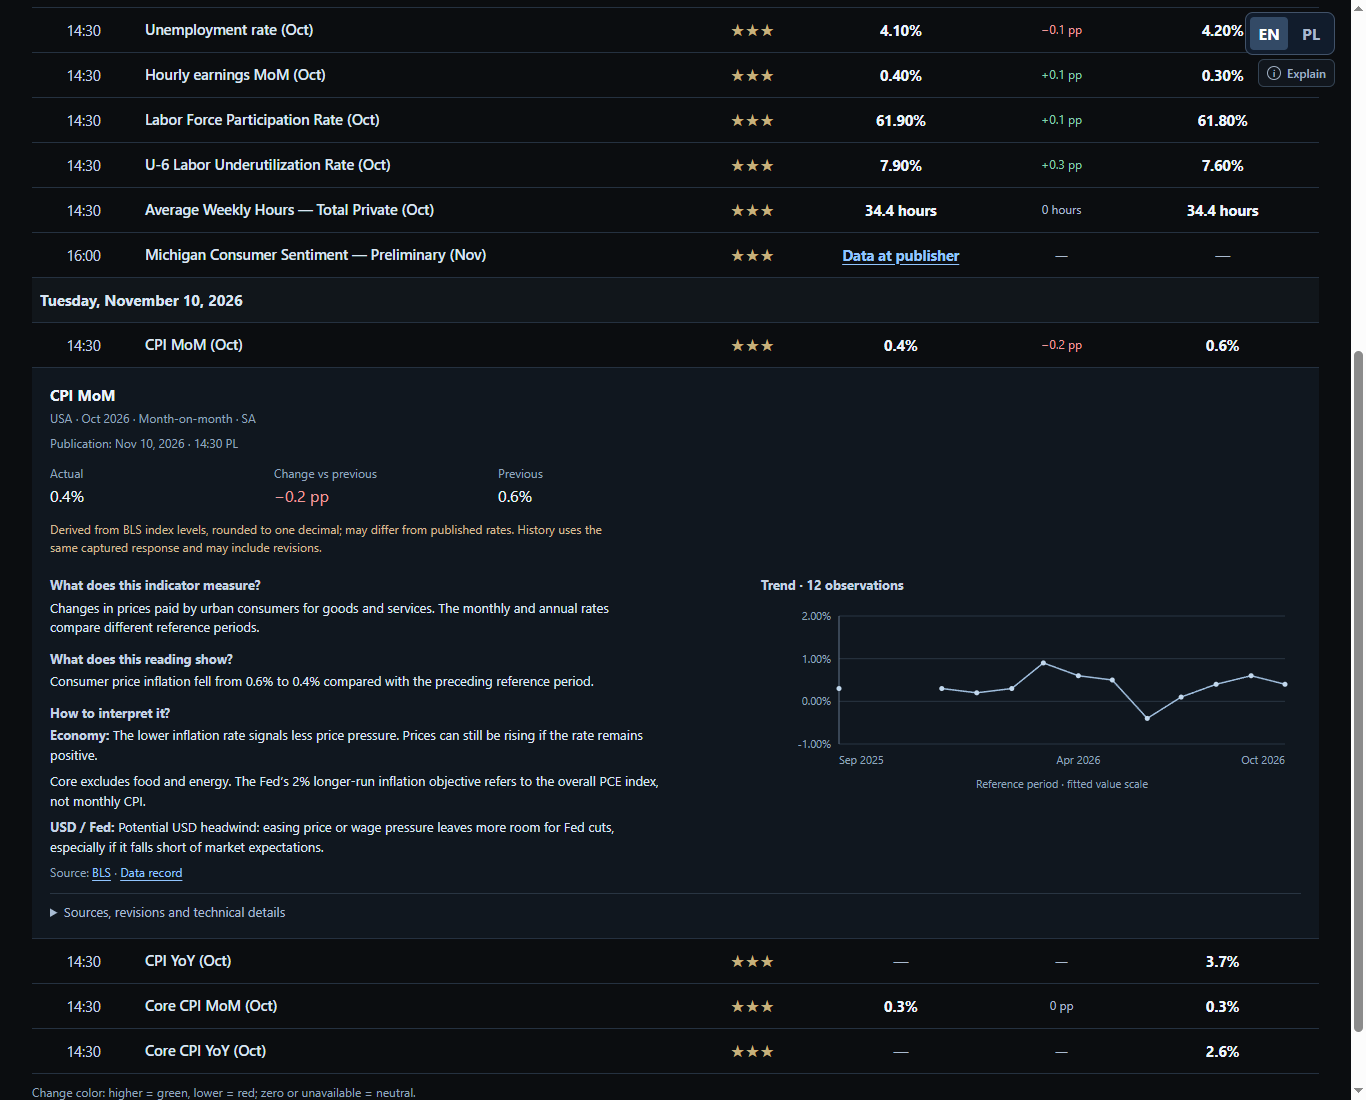
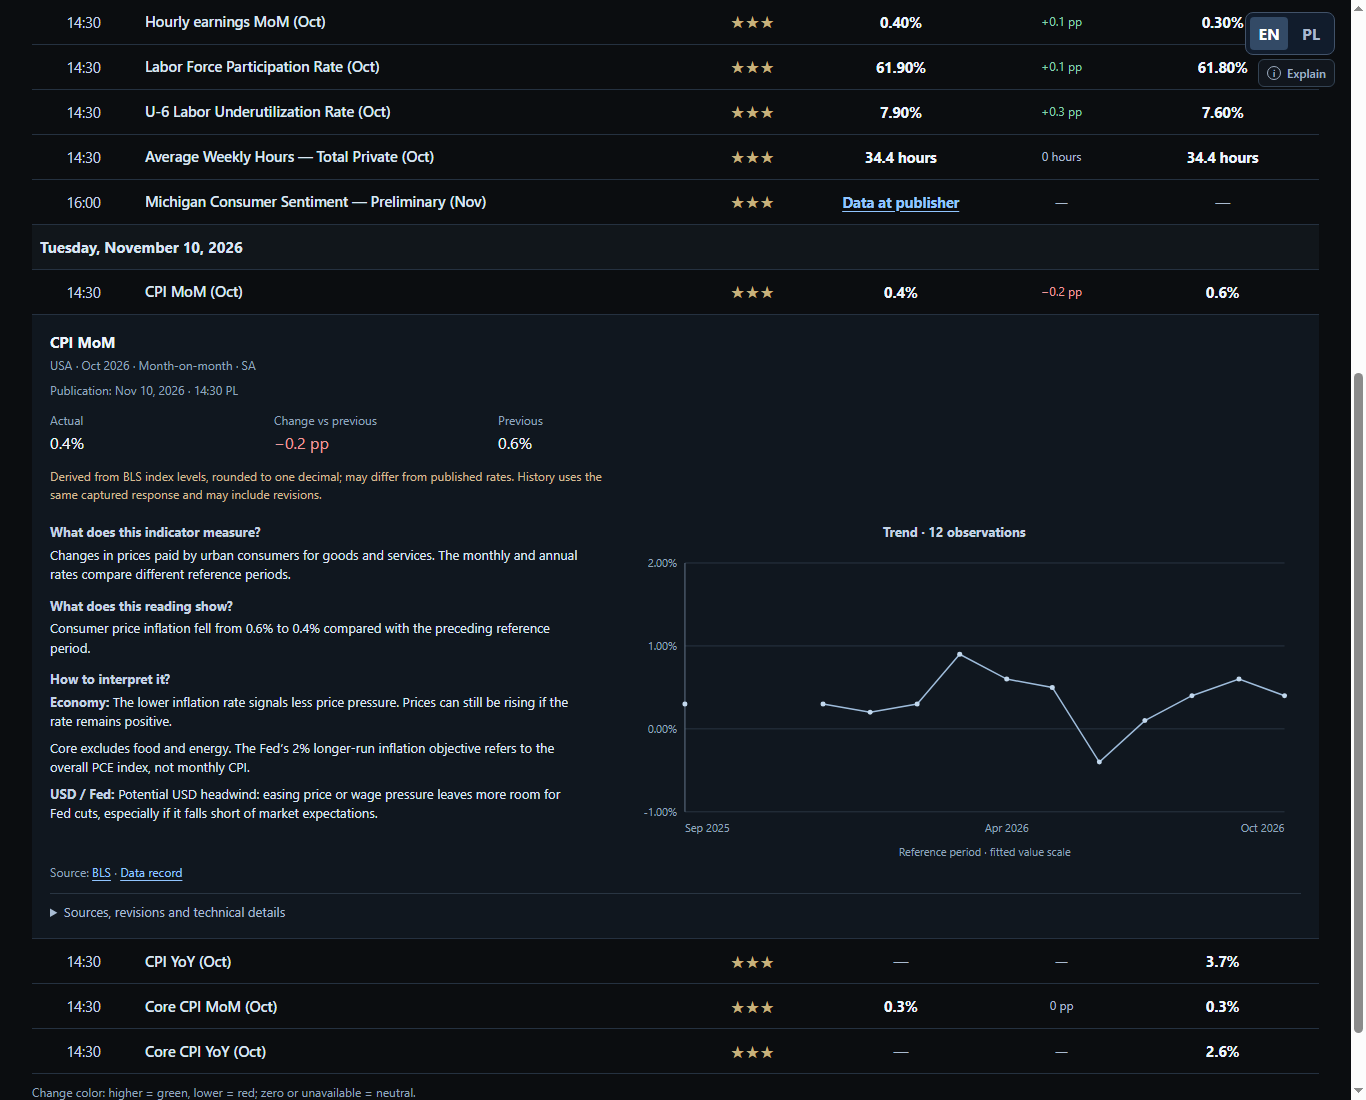
Expand Calendar event trend chart and center its heading

diff --git a/frontend/src/calendar/MacroTrend.tsx b/frontend/src/calendar/MacroTrend.tsx
@@ -17,13 +17,14 @@ export function MacroTrend({measure}:{measure:CalendarMeasure}){
   return()=>abort.abort();
  },[key]);
  const fromBls=blsTrend(measure);const points=fromBls.length?fromBls:state?.key===key?state.points:[];if(!points.length)return null;
- const geometry=trendGeometry(points,measure.frequency,width),title=et(`Trend · ${points.length} observations`,`Trend · ${points.length} odczytów`);
+ const height=Math.round(Math.max(220,Math.min(340,width*0.46)));
+ const geometry=trendGeometry(points,measure.frequency,width,height),title=et(`Trend · ${points.length} observations`,`Trend · ${points.length} odczytów`);
  return <section ref={container} className="macro-insight-trend" aria-label={title}><h4>{title}</h4>
- <svg viewBox={`0 0 ${width} 198`} role="img" aria-label={title}><title>{title}</title><desc>{(measure.selected_source==='bls:employment'||measure.selected_source==='bls:cpi')?et('BLS history from one captured response; includes revisions.','Historia BLS z jednej pobranej odpowiedzi; obejmuje rewizje.'):request?.documentHash?et('History from the selected report.','Historia z wybranego raportu.'):et('Current-vintage history; may include revisions.','Historia w bieżącej wersji; może zawierać rewizje.')}</desc>
+ <svg viewBox={`0 0 ${width} ${height}`} role="img" aria-label={title}><title>{title}</title><desc>{(measure.selected_source==='bls:employment'||measure.selected_source==='bls:cpi')?et('BLS history from one captured response; includes revisions.','Historia BLS z jednej pobranej odpowiedzi; obejmuje rewizje.'):request?.documentHash?et('History from the selected report.','Historia z wybranego raportu.'):et('Current-vintage history; may include revisions.','Historia w bieżącej wersji; może zawierać rewizje.')}</desc>
  <g className="macro-trend-axis">{geometry.ticks.map(t=><g key={t.value}><line x1={geometry.left} x2={geometry.right} y1={t.y} y2={t.y}/><text x={geometry.left-8} y={t.y+4} textAnchor="end">{compactMeasureValue(t.value,measure.unit)}</text></g>)}
  <line className="macro-trend-baseline" x1={geometry.left} x2={geometry.left} y1={geometry.top} y2={geometry.bottom}/>
- {geometry.xTicks.map((p,i)=><text key={p.period} x={p.x} y={166} textAnchor={i===0?'start':i===geometry.xTicks.length-1?'end':'middle'}>{formatObservationDate(p.period,measure.frequency)}</text>)}
- <text x={(geometry.left+geometry.right)/2} y={190} textAnchor="middle">{et('Reference period · fitted value scale','Okres odczytu · dopasowana skala wartości')}</text></g>
+ {geometry.xTicks.map((p,i)=><text key={p.period} x={p.x} y={height-32} textAnchor={i===0?'start':i===geometry.xTicks.length-1?'end':'middle'}>{formatObservationDate(p.period,measure.frequency)}</text>)}
+ <text x={(geometry.left+geometry.right)/2} y={height-8} textAnchor="middle">{et('Reference period · fitted value scale','Okres odczytu · dopasowana skala wartości')}</text></g>
  <path d={geometry.path}/>{geometry.dots.map(p=><circle key={p.period} cx={p.x} cy={p.y} r="2.5"><title>{formatObservationDate(p.period,measure.frequency)}: {compactMeasureValue(p.value,measure.unit)}</title></circle>)}</svg>
  <ol className="visually-hidden" aria-label={et('Trend values','Wartości trendu')}>{points.map(p=><li key={p.period}><time dateTime={p.period}>{formatObservationDate(p.period,measure.frequency)}</time>: {compactMeasureValue(p.value,measure.unit)}</li>)}</ol>
  </section>;

diff --git a/frontend/src/calendar/macroTrendData.ts b/frontend/src/calendar/macroTrendData.ts
@@ -59,12 +59,12 @@ export function comparableTrend(m:CalendarMeasure,data:unknown):TrendPoint[]{
  return result.length>=3?result:[];
 }
 
-export function trendGeometry(points:TrendPoint[],frequency:string,width=540){
+export function trendGeometry(points:TrendPoint[],frequency:string,width=540,height=198){
  const times=points.map(p=>Date.parse(p.period+'T00:00:00Z')),values=points.map(p=>p.value),min=Math.min(...values),max=Math.max(...values);
  const padding=(max-min||Math.abs(max)*0.1||1)*0.08,span=max-min+2*padding,rough=span/3,power=10**Math.floor(Math.log10(rough));
  const step=([1,2,2.5,5,10].find(n=>n*power>=rough)??10)*power;
  const low=Math.floor((min-padding)/step)*step,high=Math.ceil((max+padding)/step)*step;
- const left=78,right=width-16,top=18,bottom=146,y=(value:number)=>bottom-(value-low)/(high-low)*(bottom-top);
+ const left=78,right=width-16,top=18,bottom=height-52,y=(value:number)=>bottom-(value-low)/(high-low)*(bottom-top);
  const ticks=Array.from({length:Math.round((high-low)/step)+1},(_,i)=>{const value=Number((low+i*step).toPrecision(12));return {value,y:y(value)};});
  const dots=points.map((p,i)=>({...p,x:left+(times[i]-times[0])/(times[times.length-1]-times[0]||1)*(right-left),y:y(p.value)}));
  const path=dots.map((p,i)=>{

diff --git a/frontend/src/calendar/macroEventCard.css b/frontend/src/calendar/macroEventCard.css
@@ -15,12 +15,12 @@
 .macro-insight-technical > summary { cursor: pointer; color: #a8bcd3; }
 .agenda-technical-content { padding-top: 10px; max-width: 100%; }
 .macro-insight-body,.macro-insight-copy { min-width: 0; }
-.macro-insight-trend { width: 100%; max-width: 540px; min-width: 0; }
+.macro-insight-trend { width: 100%; min-width: 0; }
+.macro-insight-trend h4 { text-align: center; }
 @media(min-width: 1000px) {
- .macro-insight-body:has(> .macro-insight-trend) { display: grid; grid-template-columns: repeat(2,minmax(0,1fr)); gap: 32px; align-items: start; }
- .macro-insight-body > .macro-insight-trend { justify-self: end; }
+ .macro-insight-body:has(> .macro-insight-trend) { display: grid; grid-template-columns: minmax(0,1fr) minmax(0,1.3fr); gap: 24px; align-items: start; }
 }
-.macro-insight-trend svg { display: block; width: 100%; height: 198px; }
+.macro-insight-trend svg { display: block; width: 100%; height: auto; }
 .macro-trend-axis text { fill: #91a5bd; font-size: 11px; }
 .macro-trend-axis line { stroke: #293542; stroke-width: 1; }
 .macro-trend-axis .macro-trend-baseline { stroke: #62758b; }

diff --git a/docs/screenshots/README.md b/docs/screenshots/README.md
@@ -17,3 +17,8 @@ Partial-source checks and unavailable readings remain visible. Some Overview
 readings and Calendar readings use different source versions or transformations;
 these screenshots are not evidence of equal precision, current completeness or
 future release coverage. They are a recorded walkthrough, not a hosted demo.
+
+The macro-detail screenshot was recaptured on 16 November 2026 after enlarging
+the responsive trend chart and centering its heading. It uses the same real
+API/Vite, desktop viewport and read-only capture conditions described above.
+The other three screenshots are unchanged.
